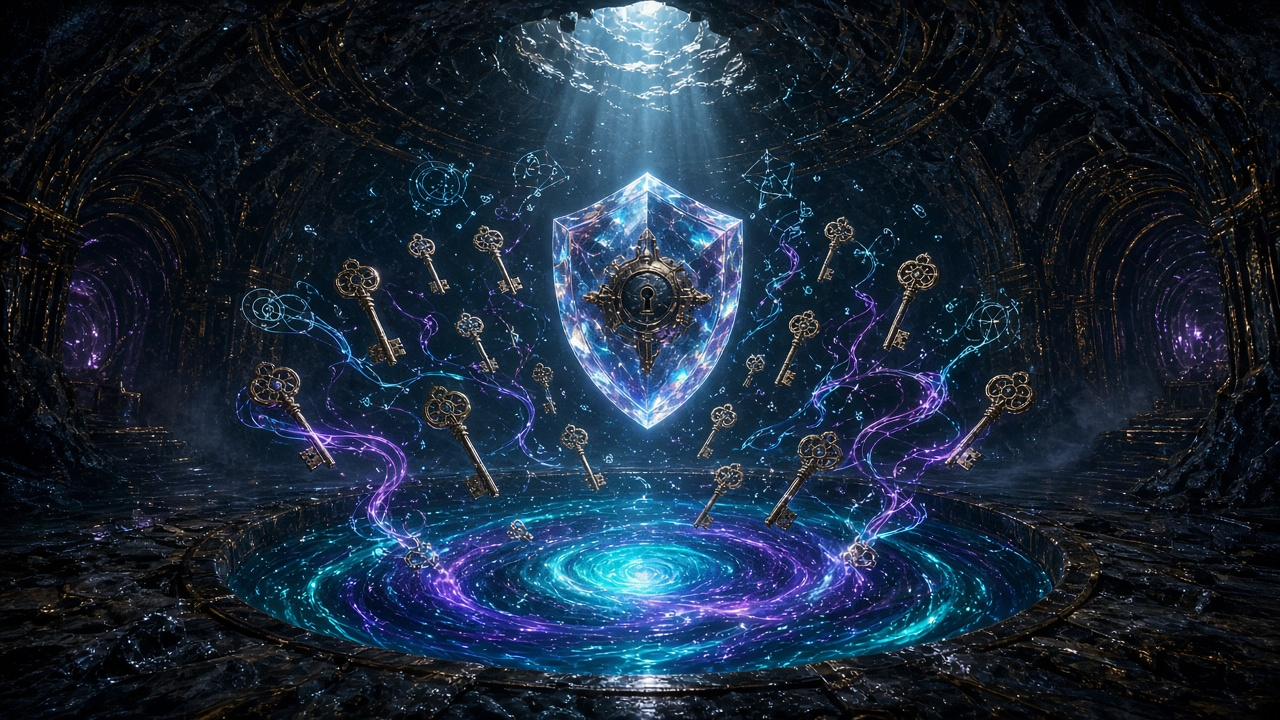
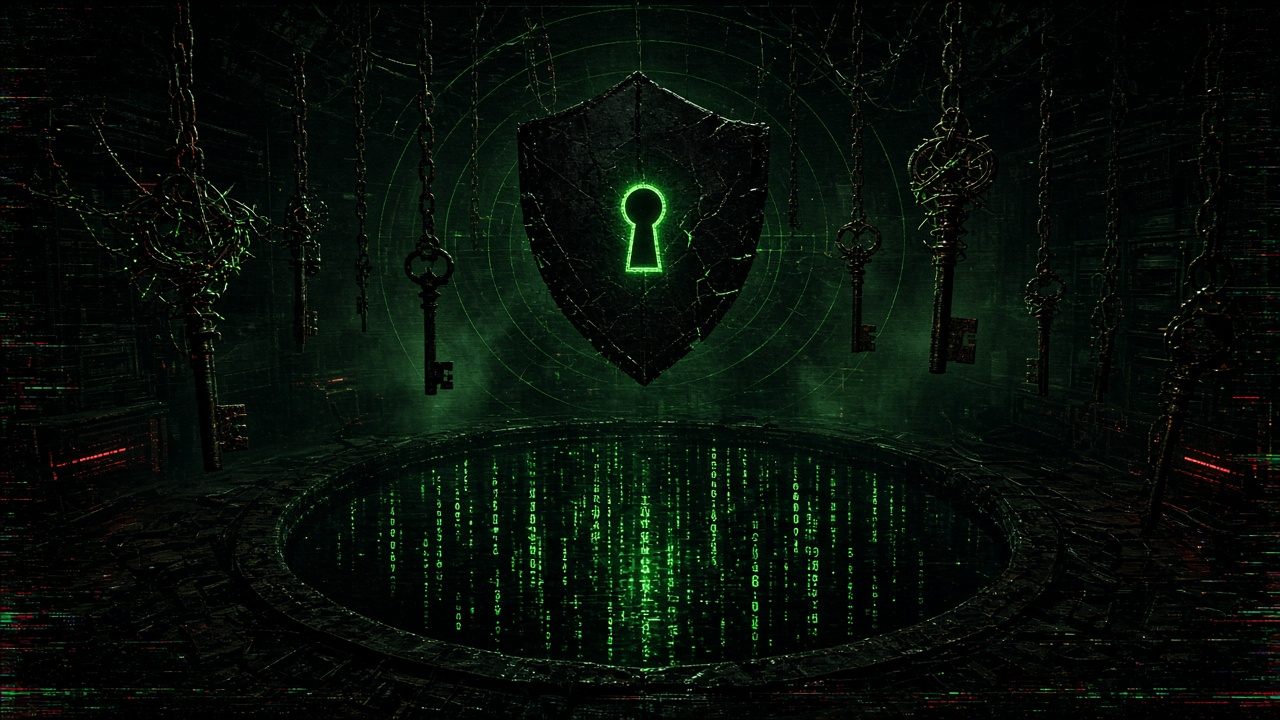
docs: dark-web visual identity for README art
Black / matrix-green hero, triptych, abyss accent, and CRT-style
SVG banner to match a darker underground aesthetic.

diff --git a/README.md b/README.md
@@ -3,7 +3,7 @@
 </p>
 
 <p align="center">
-  <img src="docs/hero.png" alt="KeyPool Local — vault of floating keys over a bioluminescent pool" width="92%" />
+  <img src="docs/hero.png" alt="KeyPool Local — dark-web vault, green keyhole shield" width="92%" />
 </p>
 
 <h1 align="center">KeyPool Local</h1>
@@ -16,9 +16,9 @@
 <p align="center">
   <a href="https://github.com/manansbdb/keypool-local/blob/main/LICENSE"><img src="https://img.shields.io/badge/license-MIT-22c55e?style=for-the-badge" alt="MIT" /></a>
   <img src="https://img.shields.io/badge/lang-EN%20%7C%20PT-3b82f6?style=for-the-badge" alt="EN PT" />
-  <img src="https://img.shields.io/badge/FREE__ONLY-default-0ea5e9?style=for-the-badge" alt="FREE_ONLY" />
-  <img src="https://img.shields.io/badge/crypto-Fernet-a855f7?style=for-the-badge" alt="Fernet" />
-  <img src="https://img.shields.io/badge/proxy-127.0.0.1-f59e0b?style=for-the-badge" alt="loopback" />
+  <img src="https://img.shields.io/badge/FREE__ONLY-default-00ff66?style=for-the-badge" alt="FREE_ONLY" />
+  <img src="https://img.shields.io/badge/crypto-Fernet-00ff66?style=for-the-badge" alt="Fernet" />
+  <img src="https://img.shields.io/badge/proxy-127.0.0.1-111111?style=for-the-badge" alt="loopback" />
   <a href="https://github.com/manansbdb/keypool-local/actions/workflows/ci.yml"><img src="https://img.shields.io/github/actions/workflow/status/manansbdb/keypool-local/ci.yml?branch=main&amp;style=for-the-badge&amp;label=CI" alt="CI" /></a>
 </p>
 
@@ -46,18 +46,18 @@ flowchart LR
   A["🔑 Your keys\non disk"] --> B["🔐 Fernet\nat rest"]
   B --> C["♻ Rotator\nFREE_ONLY"]
   C --> D["🖥 TUI / CLI\nor 🔁 proxy"]
-  style A fill:#0ea5e9,stroke:#0369a1,color:#fff
-  style B fill:#8b5cf6,stroke:#6d28d9,color:#fff
-  style C fill:#22c55e,stroke:#15803d,color:#fff
-  style D fill:#f59e0b,stroke:#b45309,color:#fff
+  style A fill:#003311,stroke:#00ff66,color:#00ff66
+  style B fill:#001a00,stroke:#00ff66,color:#00ff66
+  style C fill:#0a0a0a,stroke:#ff3355,color:#ff6680
+  style D fill:#111111,stroke:#00ff66,color:#66ff99
 ```
 
 <p align="center">
-  <img src="docs/features.png" alt="KeyPool Local — midnight workshop, Fernet cipher, localhost carousel" width="92%" />
+  <img src="docs/features.png" alt="KeyPool Local — dark-web triptych CRT / Fernet / localhost" width="92%" />
 </p>
 
 <p align="center">
-  <img src="docs/underwater.png" alt="KeyPool Local — underwater school of keys" width="92%" />
+  <img src="docs/underwater.png" alt="KeyPool Local — abyssal dark-web key vault" width="92%" />
 </p>
 
 ---
